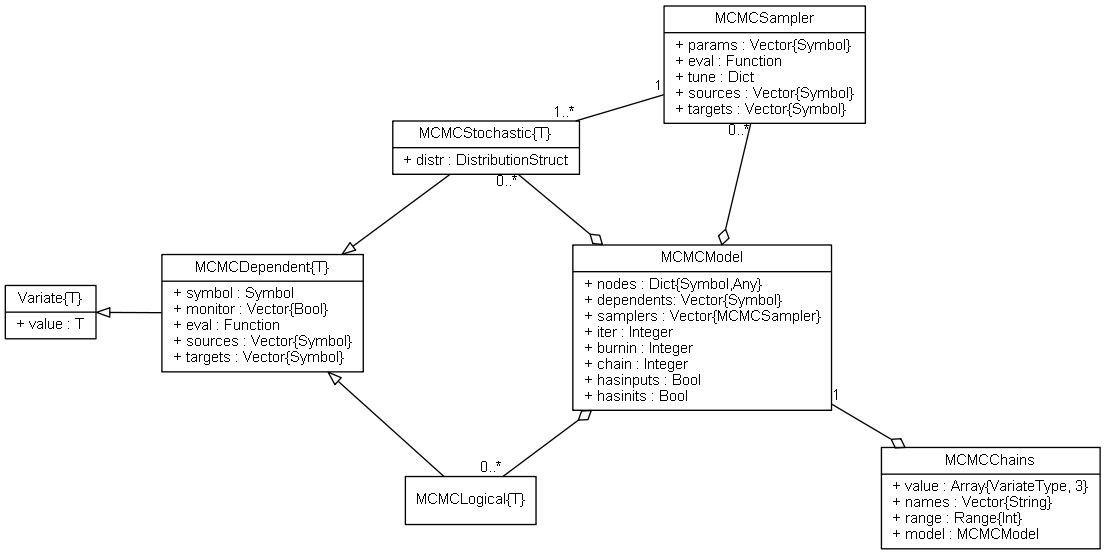
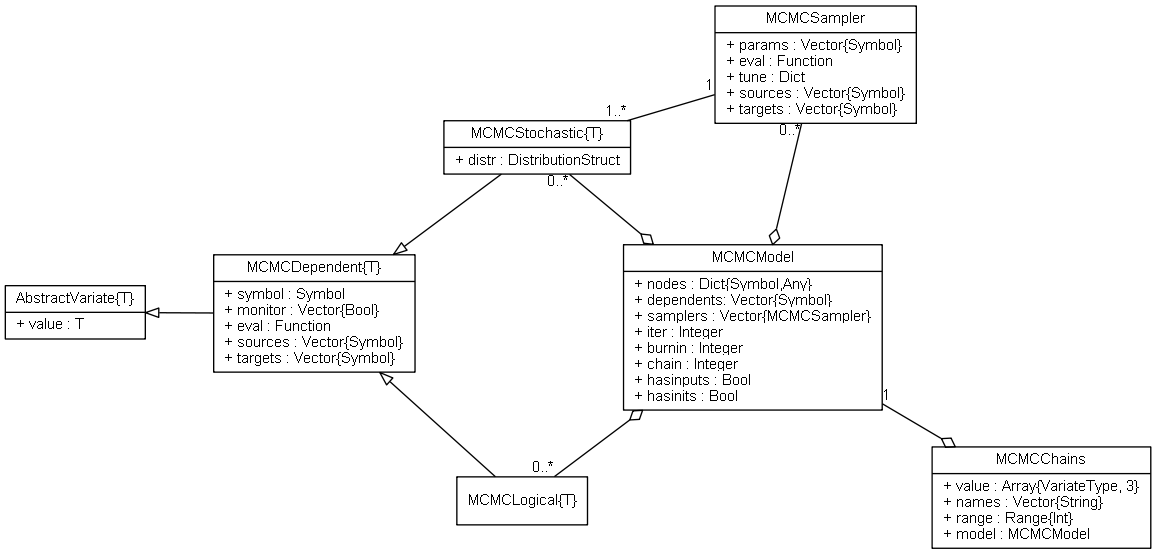
Renamed abstract Variate type to AbstractVariate and added concrete Variate type.

Changed region(s): [[0.0, 0.0, 1.0, 1.0], [0.4923, 0.7671, 0.5231, 0.8285], [0.5846, 0.0307, 0.6154, 0.0614]]

diff --git a/doc/variate.rst b/doc/variate.rst
@@ -1,37 +1,39 @@
+.. index:: Variate Types
+
 Variate Types
 =============
 
-.. index:: Variate
+.. index:: AbstractVariate
 
-.. _section-Variate:
+.. _section-AbstractVariate:
 
-Variate
--------
+AbstractVariate
+---------------
 
-``Variate`` is an abstract type that serves as the basis for several concrete types in the *MCMCsim* package.  Conceptually, it represents a data structure that stores numeric values sampled from a target distribution.  As an abstract type, ``Variate`` cannot be instantiated and cannot have fields.  It can, however, have method functions, which descendant subtypes will inherit.  Such inheritance allows one to endow a core set of functionality to all subtypes by simply defining the functionality once on the abstract type (see `julia Types <http://docs.julialang.org/en/release-0.2/manual/types/>`_).  Accordingly, a core set of functionality is defined for the ``Variate`` type through the field and method functions summarized below.  Although the (abstract) type does not have fields, its method functions assume that all subtypes will be declared with the ``value`` field shown.
+``AbstractVariate`` is an abstract type that serves as the basis for several concrete types in the *MCMCsim* package.  Conceptually, it represents a data structure that stores numeric values sampled from a target distribution.  As an abstract type, ``AbstractVariate`` cannot be instantiated and cannot have fields.  It can, however, have method functions, which descendant subtypes will inherit.  Such inheritance allows one to endow a core set of functionality to all subtypes by simply defining the functionality once on the abstract type (see `julia Types <http://docs.julialang.org/en/release-0.2/manual/types/>`_).  Accordingly, a core set of functionality is defined for the ``AbstractVariate`` type through the field and method functions summarized below.  Although the (abstract) type does not have fields, its method functions assume that all subtypes will be declared with the ``value`` field shown.
 
 Declaration
 ^^^^^^^^^^^
 
-``abstract Variate{T<:Union(VariateType, Array{VariateType})}``
+``abstract AbstractVariate{T<:Union(VariateType, Array{VariateType})}``
 
 Aliases
 ^^^^^^^
 
+.. index:: AbstractVariateArray
+.. index:: AbstractVariateMatrix
+.. index:: AbstractVariateScalar
+.. index:: AbstractVariateVector
 .. index:: VariateType
-.. index:: VariateScalar
-.. index:: VariateVector
-.. index:: VariateMatrix
-.. index:: VariateArray
 
 .. code-block:: julia
 
 	typealias VariateType Float64
 
-	typealias VariateScalar Variate{VariateType}
-	typealias VariateVector Variate{Vector{VariateType}}
-	typealias VariateMatrix Variate{Matrix{VariateType}}
-	typealias VariateArray{N} Variate{Array{VariateType,N}}
+	typealias AbstractVariateScalar AbstractVariate{VariateType}
+	typealias AbstractVariateVector AbstractVariate{Vector{VariateType}}
+	typealias AbstractVariateMatrix AbstractVariate{Matrix{VariateType}}
+	typealias AbstractVariateArray{N} AbstractVariate{Array{VariateType,N}}
 
 Field
 ^^^^^
@@ -41,7 +43,7 @@ Field
 Methods
 ^^^^^^^
 
-Method functions supported on all ``Variate`` types are summarized in the following sections; and, unless otherwise specified, are detailed in `The Julia Standard Library <http://docs.julialang.org/en/release-0.2/stdlib/base>`_ documentation.
+Method functions supported on all ``AbstractVariate`` types are summarized in the following sections; and, unless otherwise specified, are detailed in `The Julia Standard Library <http://docs.julialang.org/en/release-0.2/stdlib/base>`_ documentation.
 
 Array Functions
 ```````````````
@@ -95,12 +97,14 @@ Statistics
 	mean     stdm
 
 
+.. index:: Variate
+
 Subtypes
 ----------
 
-Subtypes of ``Variate`` include the :ref:`section-MCMCDependent`, :ref:`section-MCMCLogical`, and :ref:`section-MCMCStochastic` types, as well as the those defined for supplied :ref:`section-Sampling-Functions`.
+Subtypes of ``AbstractVariate`` include the :ref:`section-MCMCDependent`, :ref:`section-MCMCLogical`, and :ref:`section-MCMCStochastic` types, as well as the those defined for supplied :ref:`section-Sampling-Functions`.
 
 .. figure:: images/variateUML.png
 	:align: center
 
-	UML relational diagram of ``Variate`` types and their fields.
+	UML relational diagram of ``AbstractVariate`` types and their fields.

diff --git a/doc/mcmc/dependent.rst b/doc/mcmc/dependent.rst
@@ -5,14 +5,14 @@
 MCMCDependent
 -------------
 
-``MCMCDependent`` is an abstract type designed to store values and attributes of model nodes, including parameters :math:`\theta_1, \ldots, \theta_p` to be simulated via MCMC, functions of the parameters, and likelihood specifications on observed data.  It extends the base ``Variate`` type with method functions defined for the fields summarized below.  Like the type it extends, values are stored in a ``value`` field and can be used with method functions that accept ``Variate`` type objects.
+``MCMCDependent`` is an abstract type designed to store values and attributes of model nodes, including parameters :math:`\theta_1, \ldots, \theta_p` to be simulated via MCMC, functions of the parameters, and likelihood specifications on observed data.  It extends the base ``AbstractVariate`` type with method functions defined for the fields summarized below.  Like the type it extends, values are stored in a ``value`` field and can be used with method functions that accept ``AbstractVariate`` type objects.
 
 Since parameter values in the ``MCMCDependent`` structure are stored as a scalar or array, objects of this type can be created for model parameters of corresponding dimensions, with the choice between the two being user and application-specific.  At one end of the spectrum, a model might be formulated in terms of parameters that are all scalars, with a separate instances of  ``MCMCDependent`` for each one.  At the other end, a formulation might be made in terms of a single parameter array, with one corresponding instance of ``MCMCDependent``.  Whether to formulate parameters as scalars or arrays will depend on the application at hand.  Array formulations should be considered for parameters and data that have multivariate distributions, or are to be used as such in numeric operations and functions.  In other cases, scalar parametrizations may be preferable.  Situations in which parameter arrays are often used include the specification of regression coefficients and random effects.
 
 Declaration
 ^^^^^^^^^^^
 
-``abstract MCMCDependent{T} <: Variate{T}``
+``abstract MCMCDependent{T} <: AbstractVariate{T}``
 
 Fields
 ^^^^^^

diff --git a/doc/mcmc.rst b/doc/mcmc.rst
@@ -20,7 +20,7 @@ The relationships are as follows.  Type ``MCMCModel`` contains a dictionary fiel
 	* **Logical nodes** (``MCMCLogical``) are terms that are deterministic functions of other nodes.
 	* **Input nodes** (not shown) are any other model terms and data types that are considered to be fixed quantities in the analysis.
 
-``MCMCStochastic`` and ``MCMCLogical`` are inherited from the base :ref:`section-Variate` type and can be used with operators and in functions defined for that type.  The sampling functions in ``MCMCModel`` each correspond to a block of one or more model parameters (stochastic nodes) to be sampled from a target distribution (e.g. full conditional) during the simulation.  Finally, ``MCMCChain`` stores simulation output for a given model.  Detailed information about each type is provided in the subsequent sections.
+``MCMCStochastic`` and ``MCMCLogical`` are inherited from the base :ref:`section-AbstractVariate` type and can be used with operators and in functions defined for that type.  The sampling functions in ``MCMCModel`` each correspond to a block of one or more model parameters (stochastic nodes) to be sampled from a target distribution (e.g. full conditional) during the simulation.  Finally, ``MCMCChain`` stores simulation output for a given model.  Detailed information about each type is provided in the subsequent sections.
 
 .. toctree::
 	:maxdepth: 1

diff --git a/doc/samplers/slice.rst b/doc/samplers/slice.rst
@@ -36,7 +36,7 @@ VariateSlice Type
 Declaration
 ```````````
 
-``VariateSlice <: VariateVector``
+``VariateSlice <: AbstractVariateVector``
 
 Fields
 ``````

diff --git a/doc/samplers/amwg.rst b/doc/samplers/amwg.rst
@@ -39,7 +39,7 @@ VariateAMWG Type
 Declaration
 ```````````
 
-``VariateAMWG <: VariateVector``
+``VariateAMWG <: AbstractVariateVector``
 
 Fields
 ``````

diff --git a/doc/samplers/nuts.rst b/doc/samplers/nuts.rst
@@ -51,7 +51,7 @@ VariateNUTS Type
 Declaration
 ```````````
 
-``VariateNUTS <: VariateVector``
+``VariateNUTS <: AbstractVariateVector``
 
 Fields
 ``````

diff --git a/doc/samplers/amm.rst b/doc/samplers/amm.rst
@@ -37,7 +37,7 @@ VariateAMM Type
 Declaration
 ```````````
 
-``VariateAMM <: VariateVector``
+``VariateAMM <: AbstractVariateVector``
 
 Fields
 ``````
